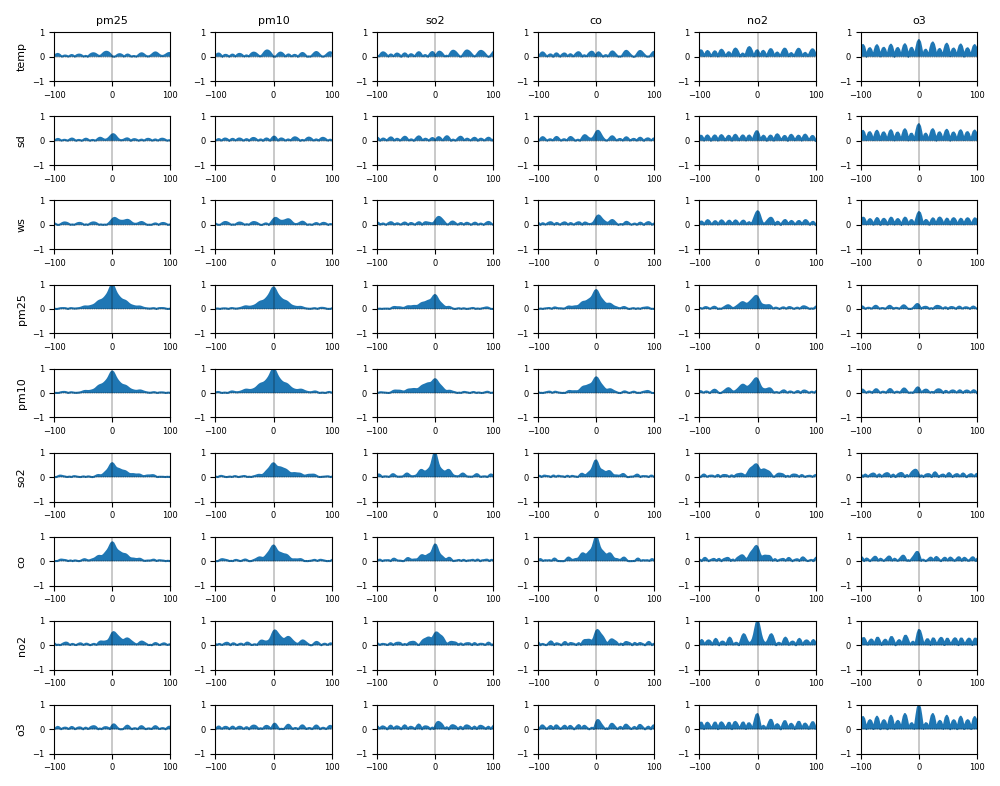
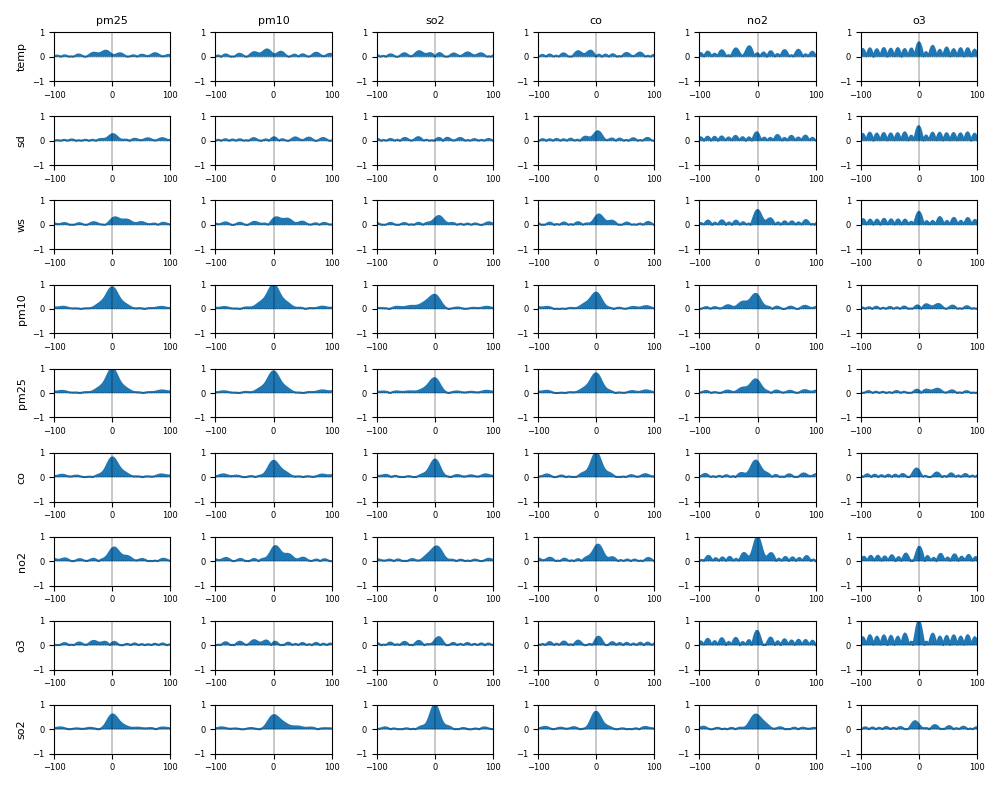
计算CCF时消除趋势影响

diff --git a/analysis/ccf.py b/analysis/ccf.py
@@ -10,6 +10,7 @@ import pandas as pd
 import numpy as np
 import json
 import matplotlib.pyplot as plt
+from sklearn.linear_model import LinearRegression
 import sys
 
 sys.path.append('../')
@@ -61,10 +62,13 @@ def mean_ccf(series_a, series_b, d, seg_len, start_locs):
 		raise ValueError('start locs末尾位置不能被分析')
 	
 	for start_loc in start_locs:
-		series_list.append(
-			[
-				series_a.copy()[start_loc: start_loc + seg_len],
-				series_b.copy()[(start_loc + d): (start_loc + seg_len + d)]])
+		series_x = erase_long_term_trend(series_a.copy()[start_loc: start_loc + seg_len])
+		series_y = erase_long_term_trend(series_b.copy()[(start_loc + d): (start_loc + seg_len + d)])
+		series_list.append([series_x, series_y])
+		# series_list.append(
+		# 	[
+		# 		series_a.copy()[start_loc: start_loc + seg_len],
+		# 		series_b.copy()[(start_loc + d): (start_loc + seg_len + d)]])
 	
 	series_list = pd.DataFrame(series_list, columns = ['series_a', 'series_b'])
 	series_list['ccf_value'] = series_list.apply(lambda x: cross_correlation(x[0], x[1], 0), axis = 1)
@@ -90,6 +94,15 @@ def time_delay_ccf_func(series_a, series_b, d_list, seg_len, start_locs):
 	return time_delay_ccf
 
 
+def erase_long_term_trend(series):
+	"""消除数据长期趋势"""
+	series = series.copy().reshape(-1, 1)
+	lr = LinearRegression().fit(np.arange(len(series)).reshape(-1, 1), series)
+	series -= lr.predict(np.arange(len(series)).reshape(-1, 1))
+	series = series.flatten()
+	return series
+
+
 if __name__ == '__main__':
 	# 参数设定
 	columns = config.conf['model_params']['continuous_columns']
@@ -102,8 +115,8 @@ if __name__ == '__main__':
 	# CCF时滞计算
 	d_list = np.arange(-100, 102, 2)
 	seg_len = 1000  # 单次ccf计算选取的序列长度
-	start_locs = np.arange(1000, 22000, 100)
-	
+	start_locs = np.arange(2000, 22000, 1000)
+
 	plt.figure(figsize = [10, 14])
 	total_time_delay_ccf = {}
 	for col_x in columns:
@@ -113,7 +126,7 @@ if __name__ == '__main__':
 			series_a, series_b = np.array(data[col_x]), np.array(data[col_y])
 			time_delay_ccf = time_delay_ccf_func(series_a, series_b, d_list, seg_len, start_locs)
 			total_time_delay_ccf[col_x][col_y] = time_delay_ccf
-			
+
 			plt.subplot(
 				len(columns), len(target_columns), len(target_columns) * columns.index(col_x) + target_columns.index(col_y) + 1)
 			plt.plot(time_delay_ccf.keys(), np.abs(list(time_delay_ccf.values())))
@@ -126,15 +139,16 @@ if __name__ == '__main__':
 			plt.yticks(fontsize = 6)
 			if col_x == columns[0]:
 				plt.title(col_y, fontsize = 8)
-			
+
 			if col_y == target_columns[0]:
 				plt.ylabel(col_x, fontsize = 8)
-			
+
 			plt.tight_layout()
 			plt.show()
 			plt.pause(1.0)
-	
+
 	plt.savefig('../graphs/ccf_analysis_on_continuous.png')
-	
+
 	with open('../tmp/total_time_delay_ccf_results.json', 'w') as f:
 		json.dump(total_time_delay_ccf, f)
+	

diff --git a/analysis/graph_net.py b/analysis/graph_net.py
@@ -100,11 +100,11 @@ if __name__ == '__main__':
 	for edge in edges:
 		weights.append(g.get_edge_data(edge[0], edge[1])['weight'])
 
-	pos = nx.spring_layout(g, iterations = 1000)
+	pos = nx.spring_layout(g, iterations = 5000)
 	plt.figure('network', figsize = [6, 6])
 	nx.draw_networkx_nodes(g, pos, node_color = 'w', node_size = 200)
 	nx.draw_networkx_edges(
-		g, pos, edge_width = 5 * weights, edge_color = weights, edge_cmap = plt.cm.Blues, arrowsize = 10)
+		g, pos, edge_width = 10 * weights, edge_color = weights, edge_cmap = plt.cm.Blues, arrowsize = 6)
 	nx.draw_networkx_labels(g, pos, font_size = 6, font_weight = 'bold')
 	plt.savefig('../graphs/graph_net.png')
 	
